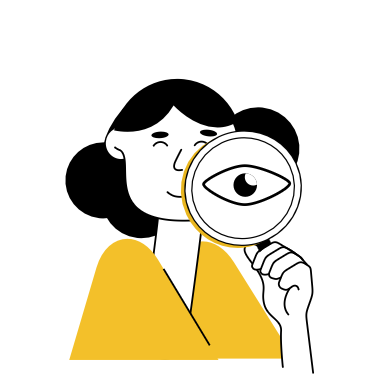
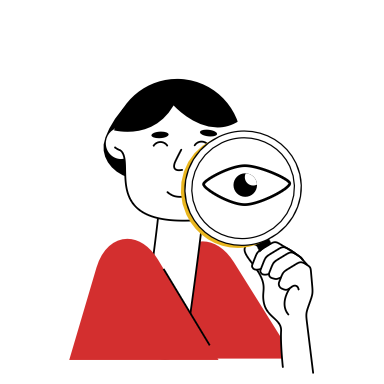
Mata is now a man in a red shirt (hair buns hidden, shirt recoloured)

Changed region(s): [[0.1562, 0.3438, 0.75, 0.9375], [0.5938, 0.2812, 0.7812, 0.4375]]

diff --git a/app.js b/app.js
@@ -103,10 +103,10 @@ const FLAGS = {
   rs: '<svg viewBox="0 0 30 20"><rect width="30" height="20" fill="#fff"/><rect width="30" height="13.33" fill="#0C4076"/><rect width="30" height="6.67" fill="#C6363C"/><path d="M8 5.5h4.5v4.5c0 1.6-2.25 2.6-2.25 2.6S8 11.6 8 10z" fill="#C6363C" stroke="#EDB92E" stroke-width=".5"/><path d="M10.25 6.5v4.6M8.9 8.4h2.7" stroke="#fff" stroke-width=".7"/></svg>'
 };
 const flag = (cid, lg) => C[cid].kind ? `<span class="flag ic ${lg ? 'lg' : ''} ${C[cid].iconText ? 'txt' : ''}" style="background:${C[cid].iconBg};${C[cid].iconFg ? `color:${C[cid].iconFg}` : ''}">${esc(C[cid].icon)}</span>` : `<span class="flag ${lg ? 'lg' : ''}">${FLAGS[C[cid].flag]}</span>`;
-// Mata, the girl with the magnifying glass: a live Rive character ("Look" by ChienPham, CC BY 4.0).
-// girl.js plays her inside this span; moods add a little whole-body motion (.mascot.girl in styles.css).
+// Mata, the man with the magnifying glass: a live Rive character ("Look" by ChienPham, CC BY 4.0).
+// guide.js plays him inside this span; moods add a little whole-body motion (.mascot.guide in styles.css).
 function mascot(mood = 'happy') {
-  return `<span class="mascot girl m-${mood}" data-mood="${mood}" aria-hidden="true"><canvas></canvas></span>`;
+  return `<span class="mascot guide m-${mood}" data-mood="${mood}" aria-hidden="true"><canvas></canvas></span>`;
 }
 const LOGO = `<svg viewBox="0 0 40 40"><rect width="40" height="40" rx="12" fill="#0E8C8F"/><circle cx="14" cy="19" r="7.5" fill="#F2A33A"/><circle cx="26" cy="19" r="7.5" fill="#F2A33A"/><circle cx="14" cy="20" r="3.6" fill="#1D120A"/><circle cx="26" cy="20" r="3.6" fill="#1D120A"/><circle cx="12.5" cy="17.5" r="1.4" fill="#fff"/><circle cx="24.5" cy="17.5" r="1.4" fill="#fff"/><path d="M15 30q5 4 10 0" stroke="#fff" stroke-width="2.4" fill="none" stroke-linecap="round"/></svg><span>tuon</span>`;
 
@@ -408,14 +408,14 @@ function renderLanding() {
       <span class="bubble-word" style="bottom:16%;left:0">Bonjour</span><span class="bubble-word" style="bottom:6%;right:8%">Maayong buntag</span></div>
     <div>
       <h1>Learn languages and life skills in <em>five-minute</em> bites.</h1>
-      <p>Meet Mata, the sharp-eyed girl with the magnifying glass who keeps you on track. Languages, school subjects, money, career, AI and more — short lessons, daily streaks and friendly competition, free in your browser.</p>
+      <p>Meet Mata, the sharp-eyed guy with the magnifying glass who keeps you on track. Languages, school subjects, money, career, AI and more — short lessons, daily streaks and friendly competition, free in your browser.</p>
       <div class="ctas">
         <a class="btn primary" href="#/start/1">Get started</a>
         <a class="btn ghost" href="#/login">I already have an account</a>
       </div>
     </div>
   </section>
-  <p class="credit-line">Mata is “Look” by <a href="https://rive.app/community/files/22487-42095-look/" target="_blank" rel="noopener">ChienPham</a> (CC BY 4.0) · Heroes from <a href="https://rive.app/community/files/26133-49002-studiorun-a-cosmic-game-by-thelittlelabs/" target="_blank" rel="noopener">StudioRun by thelittlelabs</a> (CC BY 4.0)</p>
+  <p class="credit-line">Mata is based on “Look” by <a href="https://rive.app/community/files/22487-42095-look/" target="_blank" rel="noopener">ChienPham</a> (CC BY 4.0) · Heroes from <a href="https://rive.app/community/files/26133-49002-studiorun-a-cosmic-game-by-thelittlelabs/" target="_blank" rel="noopener">StudioRun by thelittlelabs</a> (CC BY 4.0)</p>
   <footer class="course-strip"><p>${COURSE_IDS.length} courses: languages, school, career, money, AI, life skills &amp; more</p><div>${COURSE_IDS.map(c => `<span title="${esc(C[c].name)}" aria-label="${esc(C[c].name)}">${flag(c)}</span>`).join('')}</div></footer>
   </div>`;
 }
@@ -1007,7 +1007,7 @@ function renderProfile() {
 const mataReduce = matchMedia('(prefers-reduced-motion: reduce)').matches;
 function mataCls(m, c, ms) {
   m.classList.add(c); setTimeout(() => m.classList.remove(c), ms);
-  if (m.classList.contains('girl') && typeof girlPulse === 'function') { if (c === 'poke' || c === 'peek') girlPulse(m, 'press', Math.max(ms, 900)); else if (c === 'twitch') girlPulse(m, 'hover', 700); }
+  if (m.classList.contains('guide') && typeof guidePulse === 'function') { if (c === 'poke' || c === 'peek') guidePulse(m, 'press', Math.max(ms, 900)); else if (c === 'twitch') guidePulse(m, 'hover', 700); }
 }
 function mataAll(c, ms) { if (!mataReduce) document.querySelectorAll('.mascot').forEach(m => mataCls(m, c, ms)); }
 function mataBlink(m) { mataCls(m, 'blink', 140); if (Math.random() < .25) setTimeout(() => mataCls(m, 'blink', 120), 260); }

diff --git a/guide.js b/guide.js
@@ -1,0 +1,51 @@
+/* Mata, Tuon's guide: the man with the magnifying glass.
+   Live character "Look" by ChienPham (rive/look.riv, Rive Marketplace, CC BY 4.0); changed for Tuon: the white background
+   is transparent, the hair buns are hidden (short hair, so Mata is a man) and the shirt is red. mascot() in app.js writes <span class="mascot guide"><canvas></canvas></span>; this file finds those
+   spans, plays the character in them and cleans up the ones that leave the page. Rive's layout bounds draw only
+   his 424-unit square of the 528x465 artboard. rive/look.png is the still shown while he loads.
+   The state machine has two inputs: "hover" (a surprised "oh!") and "press" (he pulls the glass in close). */
+const GUIDE_CROP = {x: 66, y: -4, size: 424, w: 528, h: 465};
+const GUIDES = new Set();
+let guideBuf = null;
+function guideFile(){
+  return guideBuf || (guideBuf = heroLoadRive().then(() => fetch('rive/look.riv')).then(r => { if (!r.ok) throw 0; return r.arrayBuffer(); }).catch(e => { guideBuf = null; throw e; }));
+}
+function guideFit(g){
+  const cv = g.cv, n = cv.clientWidth; if (!n) return;
+  const N = Math.round(n * Math.min(2, window.devicePixelRatio || 1)); if (cv.width !== N) cv.width = cv.height = N;
+  const k = N / GUIDE_CROP.size, x0 = -GUIDE_CROP.x * k, y0 = -GUIDE_CROP.y * k;
+  g.r.layout = new rive.Layout({fit: rive.Fit.Fill, minX: x0, minY: y0, maxX: x0 + GUIDE_CROP.w * k, maxY: y0 + GUIDE_CROP.h * k});
+  g.el.classList.add('live');
+}
+function guideInput(el, name, on){
+  const g = el && el._guide; if (!g || !g.ok) return;
+  try { const i = g.r.stateMachineInputs('State Machine 1').find(x => x.name === name); if (i) i.value = on; } catch (e) {}
+}
+// "press" or "hover" for a moment
+function guidePulse(el, name, ms){ guideInput(el, name, true); setTimeout(() => guideInput(el, name, el.dataset.hold === name), ms); }
+function guideMood(g){
+  const el = g.el, m = el.dataset.mood;
+  if (m === 'wow') { el.dataset.hold = 'hover'; guideInput(el, 'hover', true); }
+  else if (m === 'cheer') { guidePulse(el, 'press', 900); setTimeout(() => guidePulse(el, 'press', 900), 1500); }
+  else if (m === 'wave') { setTimeout(() => guidePulse(el, 'press', 1100), 500); }
+}
+function guideMount(el){
+  if (el._guide) return; const cv = el.querySelector('canvas'); if (!cv) return;
+  const g = el._guide = {el, cv};
+  guideFile().then(buffer => {
+    if (!el.isConnected) { el._guide = null; return; }
+    g.r = new rive.Rive({buffer, canvas: cv, artboard: 'Main', stateMachines: 'State Machine 1', autoplay: true,
+      onLoad: () => { g.ok = true; guideFit(g); guideMood(g); }});
+    GUIDES.add(g);
+    try { g.ro = new ResizeObserver(() => g.ok && guideFit(g)); g.ro.observe(cv); } catch (e) {}
+  }).catch(() => { el._guide = null; });
+}
+function guideScan(){ document.querySelectorAll('.mascot.guide').forEach(el => { if (!el._guide && el.isConnected) guideMount(el); }); }
+function guideSweep(){
+  for (const g of GUIDES) if (!g.el.isConnected) { try { g.ro && g.ro.disconnect(); g.r.cleanup(); } catch (e) {} GUIDES.delete(g); }
+}
+let guideRaf = 0;
+new MutationObserver(() => { if (!guideRaf) guideRaf = requestAnimationFrame(() => { guideRaf = 0; guideSweep(); guideScan(); }); })
+  .observe(document.documentElement, {childList: true, subtree: true});
+document.addEventListener('pointerover', e => { const m = e.target.closest && e.target.closest('.mascot.guide'); if (m && e.pointerType === 'mouse') guideInput(m, 'hover', true); });
+document.addEventListener('pointerout', e => { const m = e.target.closest && e.target.closest('.mascot.guide'); if (m && !m.contains(e.relatedTarget)) guideInput(m, 'hover', m.dataset.hold === 'hover'); });

diff --git a/styles.css b/styles.css
@@ -362,21 +362,21 @@ select.field{padding:10px 12px;width:auto}
 .rail-mobile{display:none}
 @media (max-width:560px){.path .deco{display:none}}
 
-/* ---------- Mata, the girl with the magnifying glass (live Rive character, see girl.js) ----------
-   The canvas sits in a square span; moods move the whole figure a little (her face, blinks and the glass are
+/* ---------- Mata, the man with the magnifying glass (live Rive character, see guide.js) ----------
+   The canvas sits in a square span; moods move the whole figure a little (his face, blinks and the glass are
    animated by the Rive file). --lx/--ly lean toward the pointer, --tilt/--hy tilt or droop her. */
-.mascot.girl{display:block;position:relative;aspect-ratio:1;height:auto;cursor:pointer;--lx:0px;--ly:0px;--tilt:0deg;--hy:0px;-webkit-user-select:none;user-select:none;background:url(rive/look.png) center/100% 100% no-repeat}
-.mascot.girl.live{background:none}
-.mascot.girl canvas{position:absolute;inset:0;width:100%;height:100%;display:block;transform-origin:50% 100%;transform:translate(var(--lx),calc(var(--ly) + var(--hy))) rotate(var(--tilt));transition:transform .55s cubic-bezier(.3,1.6,.6,1);-webkit-mask-image:linear-gradient(#000 90%,transparent);mask-image:linear-gradient(#000 90%,transparent)}
-.mascot.girl.tilt-l{--tilt:-5deg}
-.mascot.girl.tilt-r{--tilt:5deg}
-.m-happy.girl{animation:g-bob 2.6s ease-in-out infinite}
-.m-wave.girl{animation:g-sway 2.2s ease-in-out infinite;transform-origin:50% 100%}
-.m-wow.girl{animation:g-hop 1.8s ease-in-out infinite;transform-origin:50% 100%}
-.m-cheer.girl{animation:g-jump .75s ease-in-out 4;transform-origin:50% 100%}
-.m-sad.girl{--tilt:-4deg;--hy:4%;animation:g-sigh 2.4s ease-in-out}
-.m-sad.girl canvas{filter:saturate(.6) brightness(.97)}
-.mascot.girl.poke{animation:g-poke .6s cubic-bezier(.3,1.5,.5,1)}
+.mascot.guide{display:block;position:relative;aspect-ratio:1;height:auto;cursor:pointer;--lx:0px;--ly:0px;--tilt:0deg;--hy:0px;-webkit-user-select:none;user-select:none;background:url(rive/look.png) center/100% 100% no-repeat}
+.mascot.guide.live{background:none}
+.mascot.guide canvas{position:absolute;inset:0;width:100%;height:100%;display:block;transform-origin:50% 100%;transform:translate(var(--lx),calc(var(--ly) + var(--hy))) rotate(var(--tilt));transition:transform .55s cubic-bezier(.3,1.6,.6,1);-webkit-mask-image:linear-gradient(#000 90%,transparent);mask-image:linear-gradient(#000 90%,transparent)}
+.mascot.guide.tilt-l{--tilt:-5deg}
+.mascot.guide.tilt-r{--tilt:5deg}
+.m-happy.guide{animation:g-bob 2.6s ease-in-out infinite}
+.m-wave.guide{animation:g-sway 2.2s ease-in-out infinite;transform-origin:50% 100%}
+.m-wow.guide{animation:g-hop 1.8s ease-in-out infinite;transform-origin:50% 100%}
+.m-cheer.guide{animation:g-jump .75s ease-in-out 4;transform-origin:50% 100%}
+.m-sad.guide{--tilt:-4deg;--hy:4%;animation:g-sigh 2.4s ease-in-out}
+.m-sad.guide canvas{filter:saturate(.6) brightness(.97)}
+.mascot.guide.poke{animation:g-poke .6s cubic-bezier(.3,1.5,.5,1)}
 @keyframes g-bob{50%{transform:translateY(-3%)}}
 @keyframes g-sway{0%,100%{transform:rotate(0)}50%{transform:rotate(-2.5deg)}}
 @keyframes g-hop{0%,60%,100%{transform:none}70%{transform:scale(1.04,.95)}82%{transform:translateY(-7%)}}

diff --git a/index.html b/index.html
@@ -4,14 +4,14 @@
 <meta charset="utf-8">
 <meta name="viewport" content="width=device-width, initial-scale=1, viewport-fit=cover">
 <title>Tuon — learn a language</title>
-<meta name="description" content="Learn languages, school subjects, money and career skills, AI, coding, first aid, music and more in bite-size lessons with Mata, the girl with the magnifying glass.">
+<meta name="description" content="Learn languages, school subjects, money and career skills, AI, coding, first aid, music and more in bite-size lessons with Mata, the guy with the magnifying glass.">
 <meta name="theme-color" content="#0E8C8F">
 <link rel="manifest" href="manifest.json">
 <link rel="icon" href="icon.svg" type="image/svg+xml">
 <link rel="preconnect" href="https://fonts.googleapis.com">
 <link rel="preconnect" href="https://fonts.gstatic.com" crossorigin>
 <link href="https://fonts.googleapis.com/css2?family=Fredoka:wght@500;600;700&family=Inter:wght@400;500;600;700&display=swap" rel="stylesheet">
-<link rel="stylesheet" href="styles.css?v=32">
+<link rel="stylesheet" href="styles.css?v=33">
 </head>
 <body>
 <div id="app"></div>
@@ -29,7 +29,7 @@
 <script src="hello-video.js?v=26"></script>
 <script src="hello-audio.js?v=26"></script>
 <script src="hero.js?v=3"></script>
-<script src="girl.js?v=1"></script>
-<script src="app.js?v=34"></script>
+<script src="guide.js?v=2"></script>
+<script src="app.js?v=35"></script>
 </body>
 </html>

diff --git a/sw.js b/sw.js
@@ -1,6 +1,6 @@
 // Network-first so updates show immediately; cache keeps it working offline.
-const CACHE = 'tuon-v33';
-const FILES = ['./', 'index.html', 'styles.css', 'app.js', 'hero.js', 'girl.js', 'rive/look.riv', 'rive/look.png', 'hello-audio.js', 'hello-video.js', 'skills.js', 'code.js', 'records.js', 'school.js', 'life-a.js', 'life-b.js', 'data.js', 'data-more.js', 'data-langs.js', 'data-langs2.js', 'data-langs3.js', 'icon.svg', 'manifest.json'];
+const CACHE = 'tuon-v34';
+const FILES = ['./', 'index.html', 'styles.css', 'app.js', 'hero.js', 'guide.js', 'rive/look.riv', 'rive/look.png', 'hello-audio.js', 'hello-video.js', 'skills.js', 'code.js', 'records.js', 'school.js', 'life-a.js', 'life-b.js', 'data.js', 'data-more.js', 'data-langs.js', 'data-langs2.js', 'data-langs3.js', 'icon.svg', 'manifest.json'];
 self.addEventListener('install', e => { e.waitUntil(caches.open(CACHE).then(c => c.addAll(FILES))); self.skipWaiting(); });
 self.addEventListener('activate', e => { e.waitUntil(caches.keys().then(ks => Promise.all(ks.filter(k => k !== CACHE).map(k => caches.delete(k))))); self.clients.claim(); });
 self.addEventListener('fetch', e => {

diff --git a/hero.js b/hero.js
@@ -2,7 +2,7 @@
    "StudioRun" by thelittlelabs (rive/studiorun.riv, Rive Marketplace, CC BY 4.0). The file draws them inside
    its own night-sky scene, so the hero is a framed portrait: Rive's layout bounds draw only the hero's
    380-unit square of the 1920x1080 game artboard into a small canvas. Tap the hero to choose another.
-   Mata (girl.js) stays as Tuon's guide everywhere else. */
+   Mata (guide.js) stays as Tuon's guide everywhere else. */
 const HEROES = ['Painter', 'Planner', 'Coder', 'Designer', '3D Maker', 'Dreamweaver', 'Builder', 'Writer', 'Chef', 'Santa'];
 const HERO_CROP = {x: 370, y: 630, size: 380, w: 1920, h: 1080};
 let HERO = null, HERO_EL = null, heroRiveP = null;

diff --git a/README.md b/README.md
@@ -1,5 +1,5 @@
 # Tuon
 
-Learn Spanish, French, Japanese or Cebuano in bite-size lessons with Mata, the girl with the magnifying glass (“Look” by ChienPham on the Rive Marketplace, CC BY 4.0).
+Learn Spanish, French, Japanese or Cebuano in bite-size lessons with Mata, the guy with the magnifying glass (“Look” by ChienPham on the Rive Marketplace, CC BY 4.0).
 
 Static PWA (HTML/CSS/JS, no build step). Accounts and progress are stored in the browser's localStorage.
